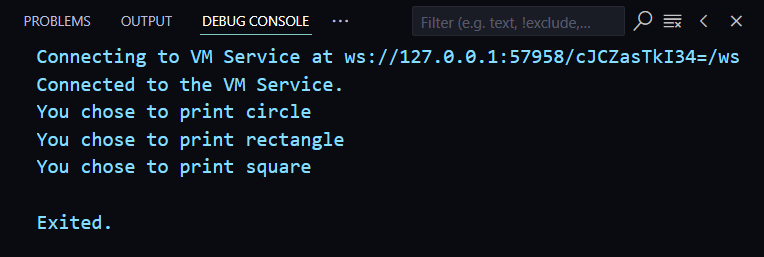
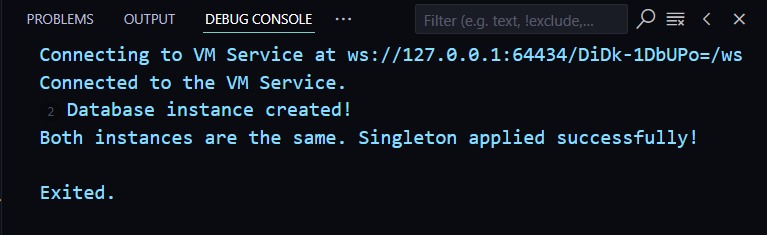
singleton pattern commit

diff --git a/bin/design_patterns.dart b/bin/design_patterns.dart
@@ -1,53 +1,27 @@
-abstract class Shape {
-  void revealMe();
-}
+class Database {
+  static final Database _instance = Database._internal();
 
-class Circle implements Shape {
-  @override
-  void revealMe() {
-    print("You chose to print circle");
+  Database._internal();
+
+  factory Database.getInstance() {
+    return _instance;
   }
-}
 
-class Rectangle implements Shape {
-  @override
-  void revealMe() {
-    print("You chose to print rectangle");
-  }
-}
-
-class Square implements Shape {
-  @override
-  void revealMe() {
-    print("You chose to print square");
-  }
-}
-
-class ShapeFactory {
-  Shape? getShape(String shapeType) {
-    switch (shapeType.toLowerCase()) {
-      case 'circle':
-        return Circle();
-      case 'rectangle':
-        return Rectangle();
-      case 'square':
-        return Square();
-      default:
-        print("Invalid shape type");
-        return null;
-    }
+  void createDatabase() {
+    print("Database instance created!");
   }
 }
 
 void main() {
-  ShapeFactory shapeFactory = ShapeFactory();
+  Database db1 = Database.getInstance();
+  Database db2 = Database.getInstance();
 
-  Shape? circle = shapeFactory.getShape("circle");
-  circle?.revealMe();
+  db1.createDatabase();
+  db2.createDatabase();
 
-  Shape? rectangle = shapeFactory.getShape("rectangle");
-  rectangle?.revealMe();
-
-  Shape? square = shapeFactory.getShape("square");
-  square?.revealMe();
+  if (db1 == db2) {
+    print("Both instances are the same. Singleton applied successfully!");
+  } else {
+    print("Singleton pattern not applied correctly.");
+  }
 }

diff --git a/README.md b/README.md
@@ -1,10 +1,10 @@
-# Shape Factory Pattern in Dart
+# Singleton Database Pattern in Dart
 
 ## Overview
-This project demonstrates the **Factory Design Pattern** in Dart by creating a `Shape` class and a `ShapeFactory` to generate objects dynamically.
+This project demonstrates the **Singleton Design Pattern** in Dart by ensuring only one instance of a `Database` class is created.
 
 ## Features
-- Uses an abstract `Shape` class with a `revealMe()` method.
-- Implements concrete classes: `Circle`, `Rectangle`, and `Square`.
-- Uses `ShapeFactory` to return the appropriate shape object based on input.
-- Prevents the need to specify exact classes during object creation.
+- Implements a **private constructor** to restrict instantiation.
+- Uses a **static instance** to ensure only one object is created.
+- Provides a **factory method** `getInstance()` to return the same instance.
+- Demonstrates the singleton pattern by comparing two instances.
